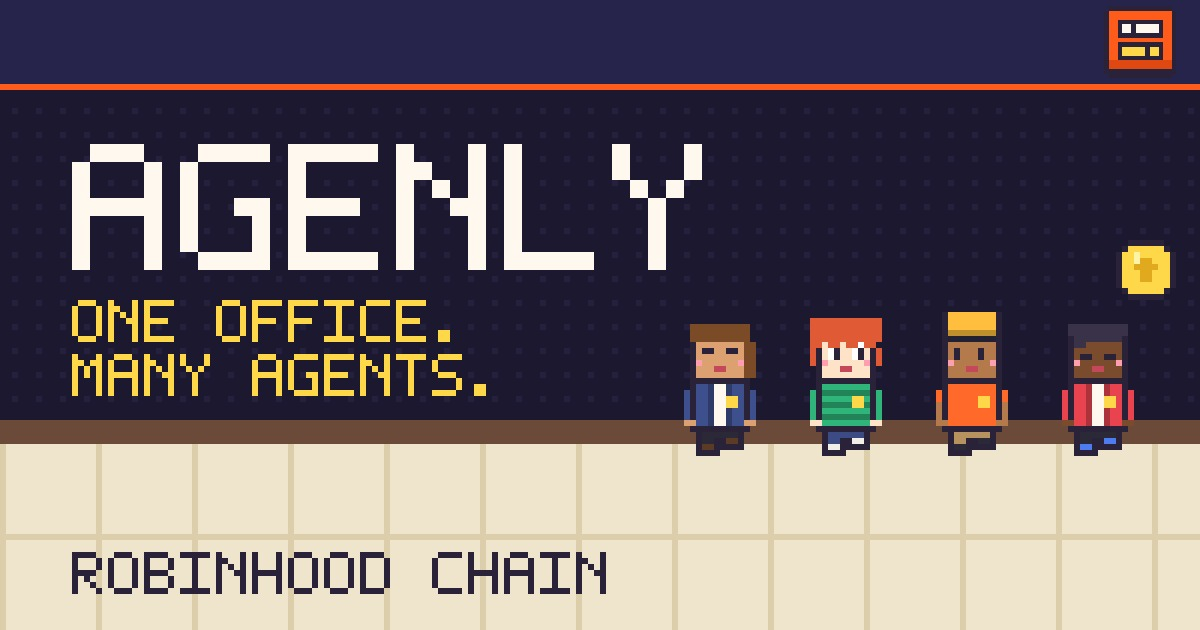
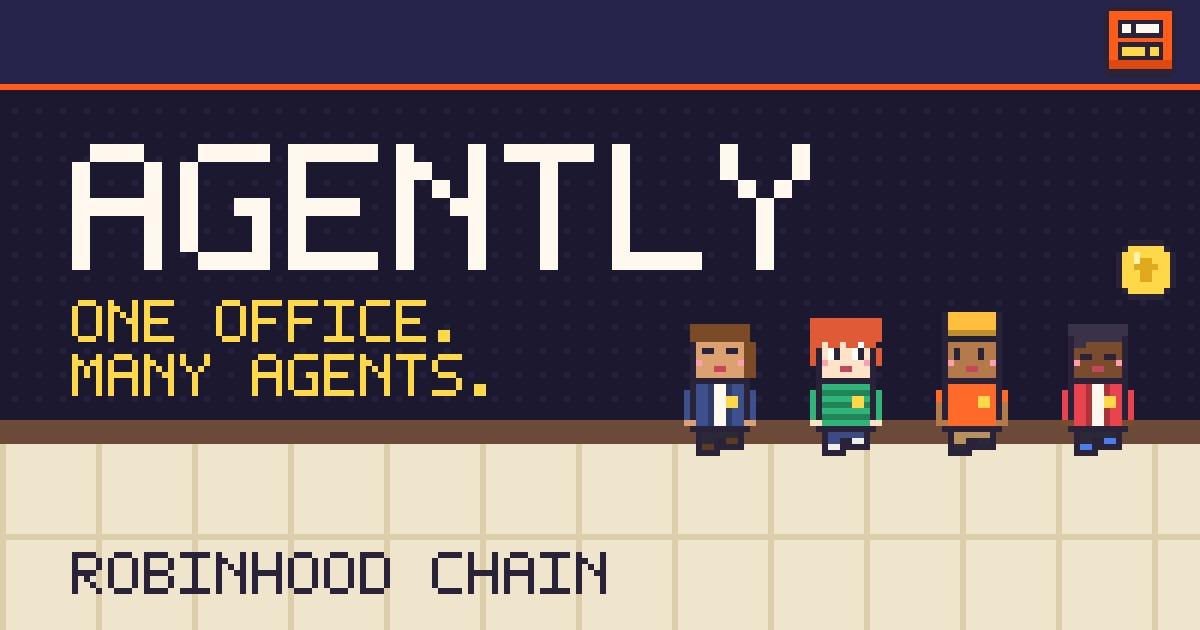
Rename to Agently ($AGENTLY) and AgentlyTaskLedger

Changed region(s): [[0.4008, 0.2111, 0.6783, 0.4524]]

diff --git a/src/lib/agency/tasks.ts b/src/lib/agency/tasks.ts
@@ -178,7 +178,7 @@ export function retry(t: Task, permissions: Permissions): Task {
 export function taskDoc(t: Task) {
   return {
     v: 1,
-    kind: "agenly.task",
+    kind: "agently.task",
     id: t.id,
     title: t.title,
     brief: t.brief,
@@ -195,7 +195,7 @@ export function taskDoc(t: Task) {
 export function resultDoc(t: Task) {
   return {
     v: 1,
-    kind: "agenly.result",
+    kind: "agently.result",
     facts: t.facts,
     research: t.research ? { by: t.research.by, points: t.research.points.map((p) => ({ text: p.text, source: p.source })) } : null,
     draft: t.draft ? { by: t.draft.by, template: t.draft.template, title: t.draft.title, body: t.draft.body, edited: t.draft.edited } : null,
@@ -207,19 +207,19 @@ export function resultDoc(t: Task) {
 /** Agent steps that ran successfully, capped at the contract's limit. */
 export const stepCount = (t: Task) => Math.max(1, Math.min(32, t.steps.filter((s) => s.ok && s.agent !== "clerk").length));
 
-export type Bundle = { format: "agenly.bundle/1"; task: ReturnType<typeof taskDoc>; result: ReturnType<typeof resultDoc>; taskHash: `0x${string}`; resultHash: `0x${string}`; steps: number };
+export type Bundle = { format: "agently.bundle/1"; task: ReturnType<typeof taskDoc>; result: ReturnType<typeof resultDoc>; taskHash: `0x${string}`; resultHash: `0x${string}`; steps: number };
 
 export function bundle(t: Task): Bundle {
   const task = taskDoc(t);
   const result = resultDoc(t);
-  return { format: "agenly.bundle/1", task, result, taskHash: hashDoc(task), resultHash: hashDoc(result), steps: stepCount(t) };
+  return { format: "agently.bundle/1", task, result, taskHash: hashDoc(task), resultHash: hashDoc(result), steps: stepCount(t) };
 }
 
 /** Recomputes both hashes of an exported bundle and says whether they match what the file claims. */
 export function checkBundle(raw: unknown): { ok: true; taskHash: `0x${string}`; resultHash: `0x${string}`; steps: number; claimsMatch: boolean; title: string } | { ok: false; error: string } {
   if (!raw || typeof raw !== "object") return { ok: false, error: "Not a JSON object." };
   const b = raw as Partial<Bundle>;
-  if (b.format !== "agenly.bundle/1" || !b.task || !b.result) return { ok: false, error: "Not an Agenly task file (format agenly.bundle/1)." };
+  if (b.format !== "agently.bundle/1" || !b.task || !b.result) return { ok: false, error: "Not an Agently task file (format agently.bundle/1)." };
   try {
     const taskHash = hashDoc(b.task);
     const resultHash = hashDoc(b.result);

diff --git a/src/components/deploy/DeployPanel.tsx b/src/components/deploy/DeployPanel.tsx
@@ -11,7 +11,7 @@ import { explain, waitForReceipt } from "@/lib/client";
 type Art = { creation: string; sha256: string };
 type Progress = { ledger?: string; ledgerTx?: string; ledgerBlock?: number };
 
-/** Owner tool: deploys AgenlyTaskLedger from the connected wallet. */
+/** Owner tool: deploys AgentlyTaskLedger from the connected wallet. */
 export function DeployPanel({ ledger }: { ledger: Art }) {
   const { address, onRobinhoodChain, sendTransaction, switchNetwork } = useWallet();
   const { open } = useWalletModal();
@@ -26,12 +26,12 @@ export function DeployPanel({ ledger }: { ledger: Art }) {
     setBusy(true);
     try {
       const data = ledger.creation as `0x${string}`;
-      say(`AgenlyTaskLedger: confirm in the wallet (${(data.length - 2) / 2} bytes)`);
+      say(`AgentlyTaskLedger: confirm in the wallet (${(data.length - 2) / 2} bytes)`);
       const hash = await sendTransaction({ data });
-      say(`AgenlyTaskLedger: sent ${hash}`);
+      say(`AgentlyTaskLedger: sent ${hash}`);
       const r = await waitForReceipt(hash, 300_000);
-      if (!r.ok || !r.contractAddress) throw new Error("AgenlyTaskLedger deployment reverted");
-      say(`AgenlyTaskLedger: deployed at ${r.contractAddress} (block ${r.blockNumber})`);
+      if (!r.ok || !r.contractAddress) throw new Error("AgentlyTaskLedger deployment reverted");
+      say(`AgentlyTaskLedger: deployed at ${r.contractAddress} (block ${r.blockNumber})`);
       setP({ ledger: r.contractAddress, ledgerTx: hash, ledgerBlock: r.blockNumber });
     } catch (e) {
       say(`failed: ${explain(e)}`);
@@ -56,7 +56,7 @@ export function DeployPanel({ ledger }: { ledger: Art }) {
   return (
     <div className="stack" data-testid="deploy-panel">
       <section className="paper">
-        <h2 className="h3">1 · AgenlyTaskLedger (no arguments, no token)</h2>
+        <h2 className="h3">1 · AgentlyTaskLedger (no arguments, no token)</h2>
         <p className="mono small muted">Build sha256 {ledger.sha256.slice(0, 16)}…</p>
         {p.ledger ? (
           <p>
@@ -72,7 +72,7 @@ export function DeployPanel({ ledger }: { ledger: Art }) {
           </p>
         ) : (
           <button type="button" className="btn btn-orange" disabled={busy} data-testid="deploy-ledger" onClick={deploy}>
-            {busy ? "Deploying…" : "Deploy AgenlyTaskLedger"}
+            {busy ? "Deploying…" : "Deploy AgentlyTaskLedger"}
           </button>
         )}
       </section>

diff --git a/src/config/brand.ts b/src/config/brand.ts
@@ -3,23 +3,23 @@
 // the token page, the buy buttons and every explorer link derive from it. Anything that is not a 0x + 40 hex
 // address is treated as "not launched yet".
 
-/** Contract address of $AGENLY. "TBA" until the owner publishes it (owner block 27 Oct 2026: not launched yet). */
+/** Contract address of $AGENTLY. "TBA" until the owner publishes it (owner block 27 Oct 2026: not launched yet). */
 const CA: string = "TBA";
 
 /**
  * True once the domain points at this deployment. While false, the production *.vercel.app host is served
  * as is (kept out of search with noindex) instead of redirecting to a domain that does not serve the site.
- * 27 Oct 2026: agentlyoffice.lol was registered that day (05:16 UTC, Cloudflare name servers, no A record), not on Vercel yet.
+ * 27 Oct 2026: agentlyoffice.lol registered that day and pointed at the Vercel deployment (live).
  */
-export const DOMAIN_LIVE = false;
+export const DOMAIN_LIVE = true;
 
 export const isAddress = (v: string): v is `0x${string}` => /^0x[0-9a-fA-F]{40}$/.test(v);
 
-const NAME = "Agenly";
-const SLUG = "agenly";
-/** Shown upper case everywhere; the owner wrote it as $agenly. */
-const TICKER = "AGENLY";
-/** The owner's domain. The name is "Agenly"; the domain keeps the owner's spelling. */
+const NAME = "Agently";
+const SLUG = "agently";
+/** Shown upper case everywhere; the owner corrected it to $AGENTLY on 27 Oct. */
+const TICKER = "AGENTLY";
+/** The owner's domain. The name is "Agently"; the domain keeps the owner's spelling. */
 const DOMAIN = "agentlyoffice.lol";
 /** X account confirmed by the owner (27 Oct 2026). */
 const X_HANDLE = "agentlyoffice";
@@ -120,7 +120,7 @@ export function chartUrl(address: string): string | null {
 }
 
 /**
- * Where $AGENLY is bought: Pons (ponsfamily.com), the Robinhood Chain launchpad. Before the CA exists the buttons open
+ * Where $AGENTLY is bought: Pons (ponsfamily.com), the Robinhood Chain launchpad. Before the CA exists the buttons open
  * the launchpad home and read "At launch"; afterwards they open the token page /launchpad/<address>. Change it here only.
  */
 export const LAUNCHPAD = {

diff --git a/src/config/contracts.ts b/src/config/contracts.ts
@@ -1,8 +1,8 @@
 import { isAddress } from "@/config/brand";
 
 /*
- * Agenly contract address on Robinhood Chain.
- *   ledger  AgenlyTaskLedger, no constructor arguments, no owner, does not need the $AGENLY token,
+ * Agently contract address on Robinhood Chain.
+ *   ledger  AgentlyTaskLedger, no constructor arguments, no owner, does not need the $AGENTLY token,
  *           so it can be deployed before the token launches (from /deploy on localhost).
  * Empty => "Record approval" at the review desk runs in practice mode (a wallet signature kept in this browser).
  * Filled => it sends a real transaction from the approver's wallet, and the verify panel reads the chain.
@@ -10,16 +10,16 @@ import { isAddress } from "@/config/brand";
  */
 const DEPLOYED = {
   ledger: "",
-  /** Block of the AgenlyTaskLedger deployment. */
+  /** Block of the AgentlyTaskLedger deployment. */
   ledgerBlock: 0,
 };
 
 /**
- * Local fork tests only: NEXT_PUBLIC_AGENLY_TEST_CONTRACTS='{"ledger":"0x…","ledgerBlock":1}' at build time
+ * Local fork tests only: NEXT_PUBLIC_AGENTLY_TEST_CONTRACTS='{"ledger":"0x…","ledgerBlock":1}' at build time
  * points a second build at a contract deployed on an anvil chain. Never set it on Vercel.
  */
 function testOverride(): typeof DEPLOYED | null {
-  const raw = process.env.NEXT_PUBLIC_AGENLY_TEST_CONTRACTS;
+  const raw = process.env.NEXT_PUBLIC_AGENTLY_TEST_CONTRACTS;
   if (!raw) return null;
   try {
     const v = { ...DEPLOYED, ...(JSON.parse(raw) as Partial<typeof DEPLOYED>) };
@@ -33,7 +33,7 @@ export const CONTRACTS = testOverride() ?? DEPLOYED;
 
 export const ledgerLive = () => isAddress(CONTRACTS.ledger);
 
-export const CONTRACT_NAMES = { ledger: "AgenlyTaskLedger" } as const;
+export const CONTRACT_NAMES = { ledger: "AgentlyTaskLedger" } as const;
 
 /** Gas measured on an anvil chain: deployment, a first record (cold slots), a later record. */
 export const GAS = { deploy: 640_541, recordFirst: 218_000, recordNext: 200_000 } as const;

diff --git a/src/lib/ledger.ts b/src/lib/ledger.ts
@@ -3,7 +3,7 @@ import { CONTRACTS } from "@/config/contracts";
 import { LEDGER_ABI } from "@/lib/abi";
 import { read, readMany, rpcCall } from "@/lib/client";
 
-/* Browser reads and the one write the site sends to AgenlyTaskLedger. */
+/* Browser reads and the one write the site sends to AgentlyTaskLedger. */
 
 export type LedgerEntry = { id: number; approver: string; steps: number; chainBlock: number; recordedAt: number; taskHash: string; resultHash: string };
 
@@ -57,5 +57,5 @@ export async function latestRecords(limit = 10): Promise<{ total: number; entrie
 
 /** Text a practice approval signs (no contract yet): both fingerprints and the step count, readable in the wallet. */
 export function practiceMessage(title: string, taskHash: string, resultHash: string, steps: number) {
-  return [`Agenly practice approval (no transaction, nothing sent)`, `Task: ${title.slice(0, 80)}`, `Task hash: ${taskHash}`, `Result hash: ${resultHash}`, `Agent steps: ${steps}`].join("\n");
+  return [`Agently practice approval (no transaction, nothing sent)`, `Task: ${title.slice(0, 80)}`, `Task hash: ${taskHash}`, `Result hash: ${resultHash}`, `Agent steps: ${steps}`].join("\n");
 }

diff --git a/src/components/office/RecordPanel.tsx b/src/components/office/RecordPanel.tsx
@@ -86,7 +86,7 @@ export function RecordPanel({ task }: { task: Task }) {
         </div>
       </dl>
       <div className="row-btns">
-        <button type="button" className="btn sm btn-cream" onClick={() => downloadJson(`agenly-${slug}.json`, b)} data-testid="download-bundle">
+        <button type="button" className="btn sm btn-cream" onClick={() => downloadJson(`agently-${slug}.json`, b)} data-testid="download-bundle">
           Download task file
         </button>
         {task.record ? null : (
@@ -109,7 +109,7 @@ export function RecordPanel({ task }: { task: Task }) {
       ) : (
         <p className="hint">
           {live
-            ? `Recording writes both hashes and your address to AgenlyTaskLedger (about ${GAS.recordFirst.toLocaleString("en-US")} gas). The texts never leave this browser.`
+            ? `Recording writes both hashes and your address to AgentlyTaskLedger (about ${GAS.recordFirst.toLocaleString("en-US")} gas). The texts never leave this browser.`
             : "The ledger contract is not deployed yet, so recording is a practice signature kept in this browser (no transaction, no gas)."}
         </p>
       )}

diff --git a/src/lib/abi.test.ts b/src/lib/abi.test.ts
@@ -4,10 +4,10 @@ import { readFileSync } from "node:fs";
 import { toFunctionSignature, toEventSignature, type AbiFunction, type AbiEvent } from "viem";
 import { LEDGER_ABI } from "./abi";
 
-// The hand-written ABI must describe exactly the compiled AgenlyTaskLedger (src/lib/contracts/artifacts.json).
+// The hand-written ABI must describe exactly the compiled AgentlyTaskLedger (src/lib/contracts/artifacts.json).
 test("LEDGER_ABI matches the compiled contract", () => {
   const art = JSON.parse(readFileSync(new URL("./contracts/artifacts.json", import.meta.url), "utf8"));
-  const compiled = art.contracts.AgenlyTaskLedger.abi as (AbiFunction | AbiEvent | { type: string; name: string })[];
+  const compiled = art.contracts.AgentlyTaskLedger.abi as (AbiFunction | AbiEvent | { type: string; name: string })[];
   const sig = (x: (typeof compiled)[number]) =>
     x.type === "function" ? toFunctionSignature(x as AbiFunction) : x.type === "event" ? toEventSignature(x as AbiEvent) : `${x.type}:${x.name}`;
   const a = new Set(compiled.map(sig));

diff --git a/src/components/site/CopyCa.tsx b/src/components/site/CopyCa.tsx
@@ -4,7 +4,7 @@ import { useState } from "react";
 import { BRAND, TOKEN, explorerToken, isAddress, shortAddress } from "@/config/brand";
 import { ArrowUpRight, CheckIcon, CopyIcon } from "@/components/site/Icons";
 
-/* Contract address of $AGENLY from BRAND.ca. Until it is a real address every copy button says "At launch". */
+/* Contract address of $AGENTLY from BRAND.ca. Until it is a real address every copy button says "At launch". */
 
 function useCopy() {
   const [copied, setCopied] = useState(false);
@@ -21,7 +21,7 @@ function useCopy() {
   return { copied, copy };
 }
 
-/** Navbar pill: "$AGENLY 0x12…abcd [Copy]"; on phones only the short "CA" button. */
+/** Navbar pill: "$AGENTLY 0x12…abcd [Copy]"; on phones only the short "CA" button. */
 export function CaPill({ compact = false }: { compact?: boolean }) {
   const { copied, copy } = useCopy();
   const live = TOKEN.isLive;

diff --git a/src/app/deploy/page.tsx b/src/app/deploy/page.tsx
@@ -24,11 +24,11 @@ export default async function DeployPage() {
   return (
     <PageShell>
       <p className="kicker">Owner tool · localhost only</p>
-      <h1 className="h1">Deploy AgenlyTaskLedger</h1>
+      <h1 className="h1">Deploy AgentlyTaskLedger</h1>
       <p className="lead">
         One transaction from your own wallet on Robinhood Chain, about {GAS.deploy.toLocaleString("en-US")} gas. No constructor arguments, no owner, no fee and no token needed, so the ledger can go live before {BRAND.symbol} launches. Progress is kept in this browser.
       </p>
-      <DeployPanel ledger={{ creation: ART.contracts.AgenlyTaskLedger.creation, sha256: ART.contracts.AgenlyTaskLedger.sha256 }} />
+      <DeployPanel ledger={{ creation: ART.contracts.AgentlyTaskLedger.creation, sha256: ART.contracts.AgentlyTaskLedger.sha256 }} />
     </PageShell>
   );
 }

diff --git a/src/components/office/OfficeApp.tsx b/src/components/office/OfficeApp.tsx
@@ -274,7 +274,7 @@ export function OfficeApp() {
     <div className={`office ${tour !== null ? "touring" : ""} ${standup ? "alarm" : ""}`}>
       <SiteNav actions={actions} />
       <main className="stage" id="main-content">
-        <canvas ref={canvas} id="office" aria-label="The Agenly office: a pixel floor plan with agents at their desks. Use the buttons above or the keyboard to move around." />
+        <canvas ref={canvas} id="office" aria-label="The Agently office: a pixel floor plan with agents at their desks. Use the buttons above or the keyboard to move around." />
 
         <div className="hud-tl">
           <div className="room-pill" data-testid="room-pill">

diff --git a/src/components/office/TimelineDialog.tsx b/src/components/office/TimelineDialog.tsx
@@ -25,7 +25,7 @@ export function TimelineDialog({ onClose, onOpenTask }: { onClose: () => void; o
         {!events.length ? <li>Nothing yet. Assign a task at the front desk.</li> : null}
       </ol>
       <div className="modal-foot">
-        <button type="button" className="btn btn-cream" onClick={() => downloadJson("agenly-timeline.json", events)} disabled={!events.length}>
+        <button type="button" className="btn btn-cream" onClick={() => downloadJson("agently-timeline.json", events)} disabled={!events.length}>
           Export
         </button>
         <button type="button" className="btn btn-cream" onClick={clearEvents} disabled={!events.length}>

diff --git a/src/app/api/rpc/route.ts b/src/app/api/rpc/route.ts
@@ -11,7 +11,7 @@ export const dynamic = "force-dynamic";
 /*
  * JSON-RPC relay for the browser. Some networks intercept the chain's public RPC host, so the site reads
  * through its own server first: read methods for the contracts the site itself reads (tokens, the price feed,
- * the AgenlyTaskLedger) and gas estimates. It never forwards a signed transaction. A cost budget per network
+ * the AgentlyTaskLedger) and gas estimates. It never forwards a signed transaction. A cost budget per network
  * (IPv6 per /64) and a site-wide ceiling keep the RPC quota safe. Rules live in src/lib/relay.ts.
  */
 export async function POST(request: Request) {
